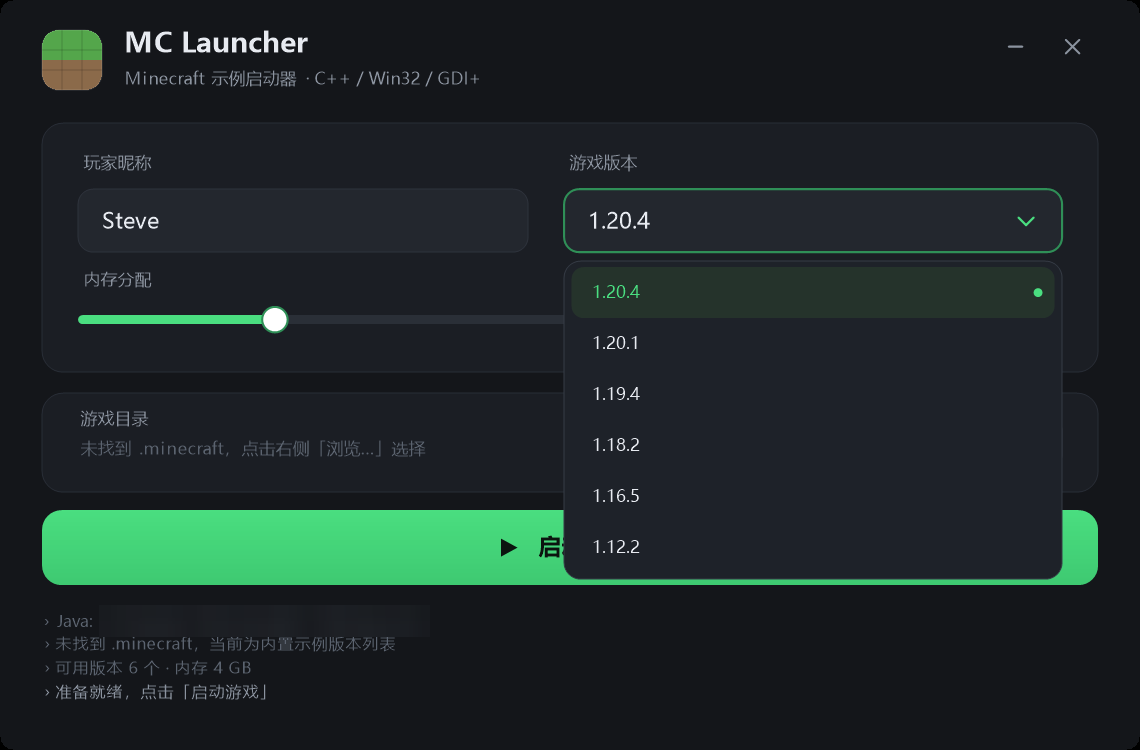
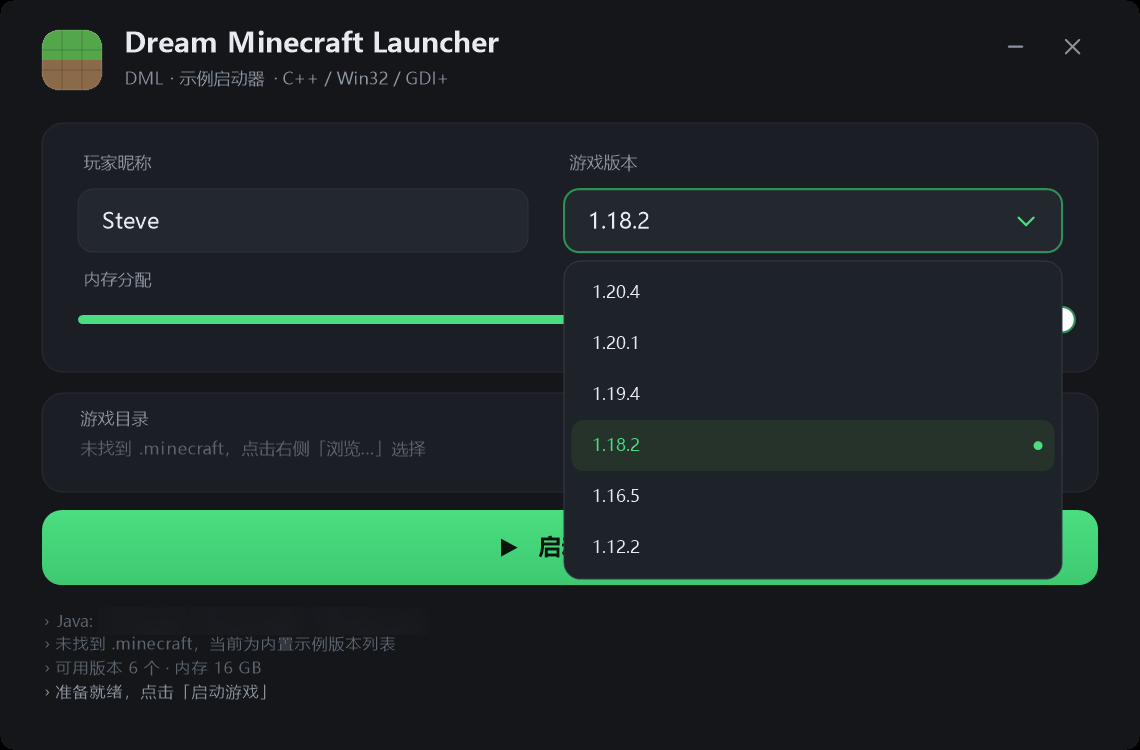
refactor: MCLite 重命名为 Dream Minecraft Launcher (DML)
- src/main.cpp: 窗口类 DreamMinecraftLauncherWnd、标题与页眉文案、
  配置目录改为 AppData 下的 DreamMinecraftLauncher
- build.bat / CMakeLists.txt: 产物改为 DML.exe / DML.pdb，target 更名
- README.md: 标题、ASCII 界面预览、目录树与配置路径同步更新
- docs/*.png: 用新版本重新截取四张界面预览（Java 路径已打码）

diff --git a/src/main.cpp b/src/main.cpp
@@ -1,9 +1,9 @@
 // ============================================================================
-//  MCLite —— 极简 Minecraft 启动器示例（C++ / Win32 / GDI+）
+//  Dream Minecraft Launcher (DML) —— 极简 Minecraft 启动器示例
 //  ---------------------------------------------------------------------------
 //  · 纯 Win32 API + GDI+ 手绘界面，无任何第三方 UI 库，单文件实现
 //  · 无边框圆角窗口、自绘输入框 / 下拉框 / 滑块 / 按钮 / 日志面板
-//  · 配置持久化（%APPDATA%\MCLite\config.ini）
+//  · 配置持久化（%APPDATA%\DreamMinecraftLauncher\config.ini）
 //  · 自动探测 .minecraft 目录、已安装版本、Java 运行时
 //  · 启动流程为「示例实现」：构建真实命令行并模拟进度，不真正拉起游戏
 //    （真实启动的接入点见 BuildLaunchCommand() 上方的注释）
@@ -259,7 +259,7 @@ static std::wstring ExeDir() {
 static std::wstring AppDataConfigDir() {
     wchar_t buf[MAX_PATH] = {0};
     if (!GetEnvironmentVariableW(L"APPDATA", buf, MAX_PATH)) return ExeDir();
-    return std::wstring(buf) + L"\\MCLite";
+    return std::wstring(buf) + L"\\DreamMinecraftLauncher";
 }
 
 static std::wstring ConfigPath() { return AppDataConfigDir() + L"\\config.ini"; }
@@ -517,8 +517,9 @@ static void Paint(HWND hwnd) {
 
         // ---------------- 头部 ----------------
         DrawLogo(gr, L.logo);
-        DrawStr(gr, L"MC Launcher", RectF(S(80), S(14), S(420), S(28)), *F.title, C(Theme::Text));
-        DrawStr(gr, L"Minecraft 示例启动器 · C++ / Win32 / GDI+",
+        DrawStr(gr, L"Dream Minecraft Launcher", RectF(S(80), S(14), S(460), S(28)),
+                *F.title, C(Theme::Text));
+        DrawStr(gr, L"DML · 示例启动器 · C++ / Win32 / GDI+",
                 RectF(S(81), S(44), S(460), S(18)), *F.sub, C(Theme::Muted));
         DrawWindowButtons(gr, L);
 
@@ -966,7 +967,7 @@ int WINAPI WinMain(HINSTANCE hInst, HINSTANCE, LPSTR, int) {
     wc.hInstance     = hInst;
     wc.hCursor       = LoadCursorW(nullptr, IDC_ARROW);
     wc.hbrBackground = nullptr;
-    wc.lpszClassName = L"MCLiteWindow";
+    wc.lpszClassName = L"DreamMinecraftLauncherWnd";
     wc.hIcon         = LoadIconW(nullptr, IDI_APPLICATION);
     wc.hIconSm       = LoadIconW(nullptr, IDI_APPLICATION);
     RegisterClassExW(&wc);
@@ -975,7 +976,8 @@ int WINAPI WinMain(HINSTANCE hInst, HINSTANCE, LPSTR, int) {
     int x = (GetSystemMetrics(SM_CXSCREEN) - w) / 2;
     int y = (GetSystemMetrics(SM_CYSCREEN) - h) / 2;
 
-    HWND hwnd = CreateWindowExW(WS_EX_APPWINDOW, L"MCLiteWindow", L"MC Launcher",
+    HWND hwnd = CreateWindowExW(WS_EX_APPWINDOW, L"DreamMinecraftLauncherWnd",
+                                L"Dream Minecraft Launcher",
                                 WS_POPUP | WS_SYSMENU | WS_MINIMIZEBOX,
                                 x, y, w, h, nullptr, nullptr, hInst, nullptr);
     if (!hwnd) return 1;

diff --git a/README.md b/README.md
@@ -1,4 +1,4 @@
-# MCLite —— 极简 Minecraft 启动器示例（C++）
+# Dream Minecraft Launcher (DML) —— 极简 Minecraft 启动器示例（C++）
 
 <p align="center">
   <img src="assets/logo/dml-lockup.png" alt="Dream Minecraft Launcher" width="520">
@@ -10,8 +10,8 @@
 
 ```
 ┌──────────────────────────────────────────────────────────────┐
-│ ▉ MC Launcher                                    ─    ✕      │
-│   Minecraft 示例启动器 · C++ / Win32 / GDI+                  │
+│ ▉ Dream Minecraft Launcher                       ─    ✕      │
+│   DML · 示例启动器 · C++ / Win32 / GDI+                      │
 │ ┌──────────────────────────────────────────────────────────┐ │
 │ │ 玩家昵称              游戏版本                            │ │
 │ │ ┌──────────────┐     ┌────────────────────┐              │ │
@@ -66,7 +66,7 @@ MCLaucher/
 ├─ src/main.cpp        # 全部源码（约 900 行，单文件）
 ├─ build.bat           # 一键编译：自动挑选 MSVC / MinGW / Zig
 ├─ CMakeLists.txt      # 可选，CMake 构建
-├─ build/MCLite.exe    # 编译产物
+├─ build/DML.exe    # 编译产物
 ├─ docs/               # 界面截图
 └─ README.md
 ```
@@ -79,7 +79,7 @@ MCLaucher/
 build.bat
 ```
 
-脚本会依次尝试 **MSVC（VS2019/2022 含 C++ 工作负载）→ MinGW g++ → Zig**，产物在 `build\MCLite.exe`。
+脚本会依次尝试 **MSVC（VS2019/2022 含 C++ 工作负载）→ MinGW g++ → Zig**，产物在 `build\DML.exe`。
 
 发布用的构建默认带 `-s`（剥离符号），避免可执行文件里嵌入本机绝对路径与调试信息；
 `build\` 目录已加入 `.gitignore`，调试符号（`.pdb`）不要随发行包一起分发。
@@ -91,13 +91,13 @@ build.bat
 
 ```bat
 cl /nologo /std:c++17 /EHsc /O2 /MT /DUNICODE /D_UNICODE src\main.cpp ^
-   /Fe:build\MCLite.exe /link /SUBSYSTEM:WINDOWS gdiplus.lib shell32.lib ole32.lib
+   /Fe:build\DML.exe /link /SUBSYSTEM:WINDOWS gdiplus.lib shell32.lib ole32.lib
 ```
 
 ### 方式三：MinGW-w64
 
 ```bat
-g++ -std=c++17 -O2 -mwindows -DUNICODE -D_UNICODE src\main.cpp -o build\MCLite.exe ^
+g++ -std=c++17 -O2 -mwindows -DUNICODE -D_UNICODE src\main.cpp -o build\DML.exe ^
     -lgdiplus -lshell32 -lole32 -lgdi32 -luser32 -static-libgcc -static-libstdc++
 ```
 
@@ -119,7 +119,7 @@ cmake --build out --config Release
 | 内存滑块 | 1–16 GB 拖动调节，按下即跟随鼠标并捕获输入 |
 | 环境探测 | 扫描 `.minecraft\versions\*\*.json` 得到真实版本列表；`JAVA_HOME` 与常见安装目录探测 Java |
 | 目录选择 | `SHBrowseForFolder` 选择游戏目录，切换后自动重扫版本 |
-| 配置持久化 | 退出/修改时写入 `%APPDATA%\MCLite\config.ini`（UTF-8） |
+| 配置持久化 | 退出/修改时写入 `%APPDATA%\DreamMinecraftLauncher\config.ini`（UTF-8） |
 | 启动流程 | 5 步进度模拟（0→100%），按钮内进度条动画，完成后输出真实命令行到日志 |
 | DPI 适配 | `SetProcessDPIAware` + 全局缩放系数，1080P / 4K 下布局一致 |
 
